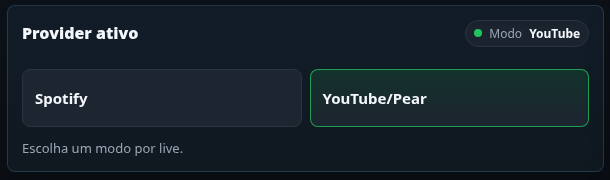
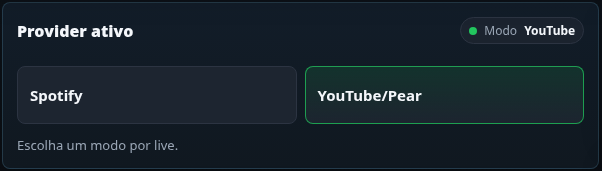
Refresh documentation screenshots

diff --git a/README.md b/README.md
@@ -225,6 +225,9 @@ YouTube. Se usa Pear, normalmente nao precisa dessa fonte.
 
 ## Comandos
 
+![Configuracao avancada de comandos e limites](docs/images/advanced-setup.png)
+
+
 Padrao para todos:
 
 ```text

diff --git a/README_EN.md b/README_EN.md
@@ -140,6 +140,9 @@ The app sends requests to Pear's queue. Pear is an external app; if it is closed
 
 ## Chat Commands
 
+![Advanced command and limit setup](docs/images/advanced-setup.png)
+
+
 Default commands:
 
 ```text

diff --git a/docs/SETUP.md b/docs/SETUP.md
@@ -245,6 +245,8 @@ Controle para mod/streamer:
 
 Na configuracao voce pode trocar os comandos e escolher quem pode usar cada um.
 
+![Configuracao avancada de comandos e limites](images/advanced-setup.png)
+
 Cargos reconhecidos:
 
 ```text

diff --git a/docs/SETUP_EN.md b/docs/SETUP_EN.md
@@ -237,6 +237,8 @@ Moderator/streamer controls:
 
 In setup, you can change commands and choose who can use each one.
 
+![Advanced command and limit setup](images/advanced-setup.png)
+
 Recognized roles:
 
 ```text